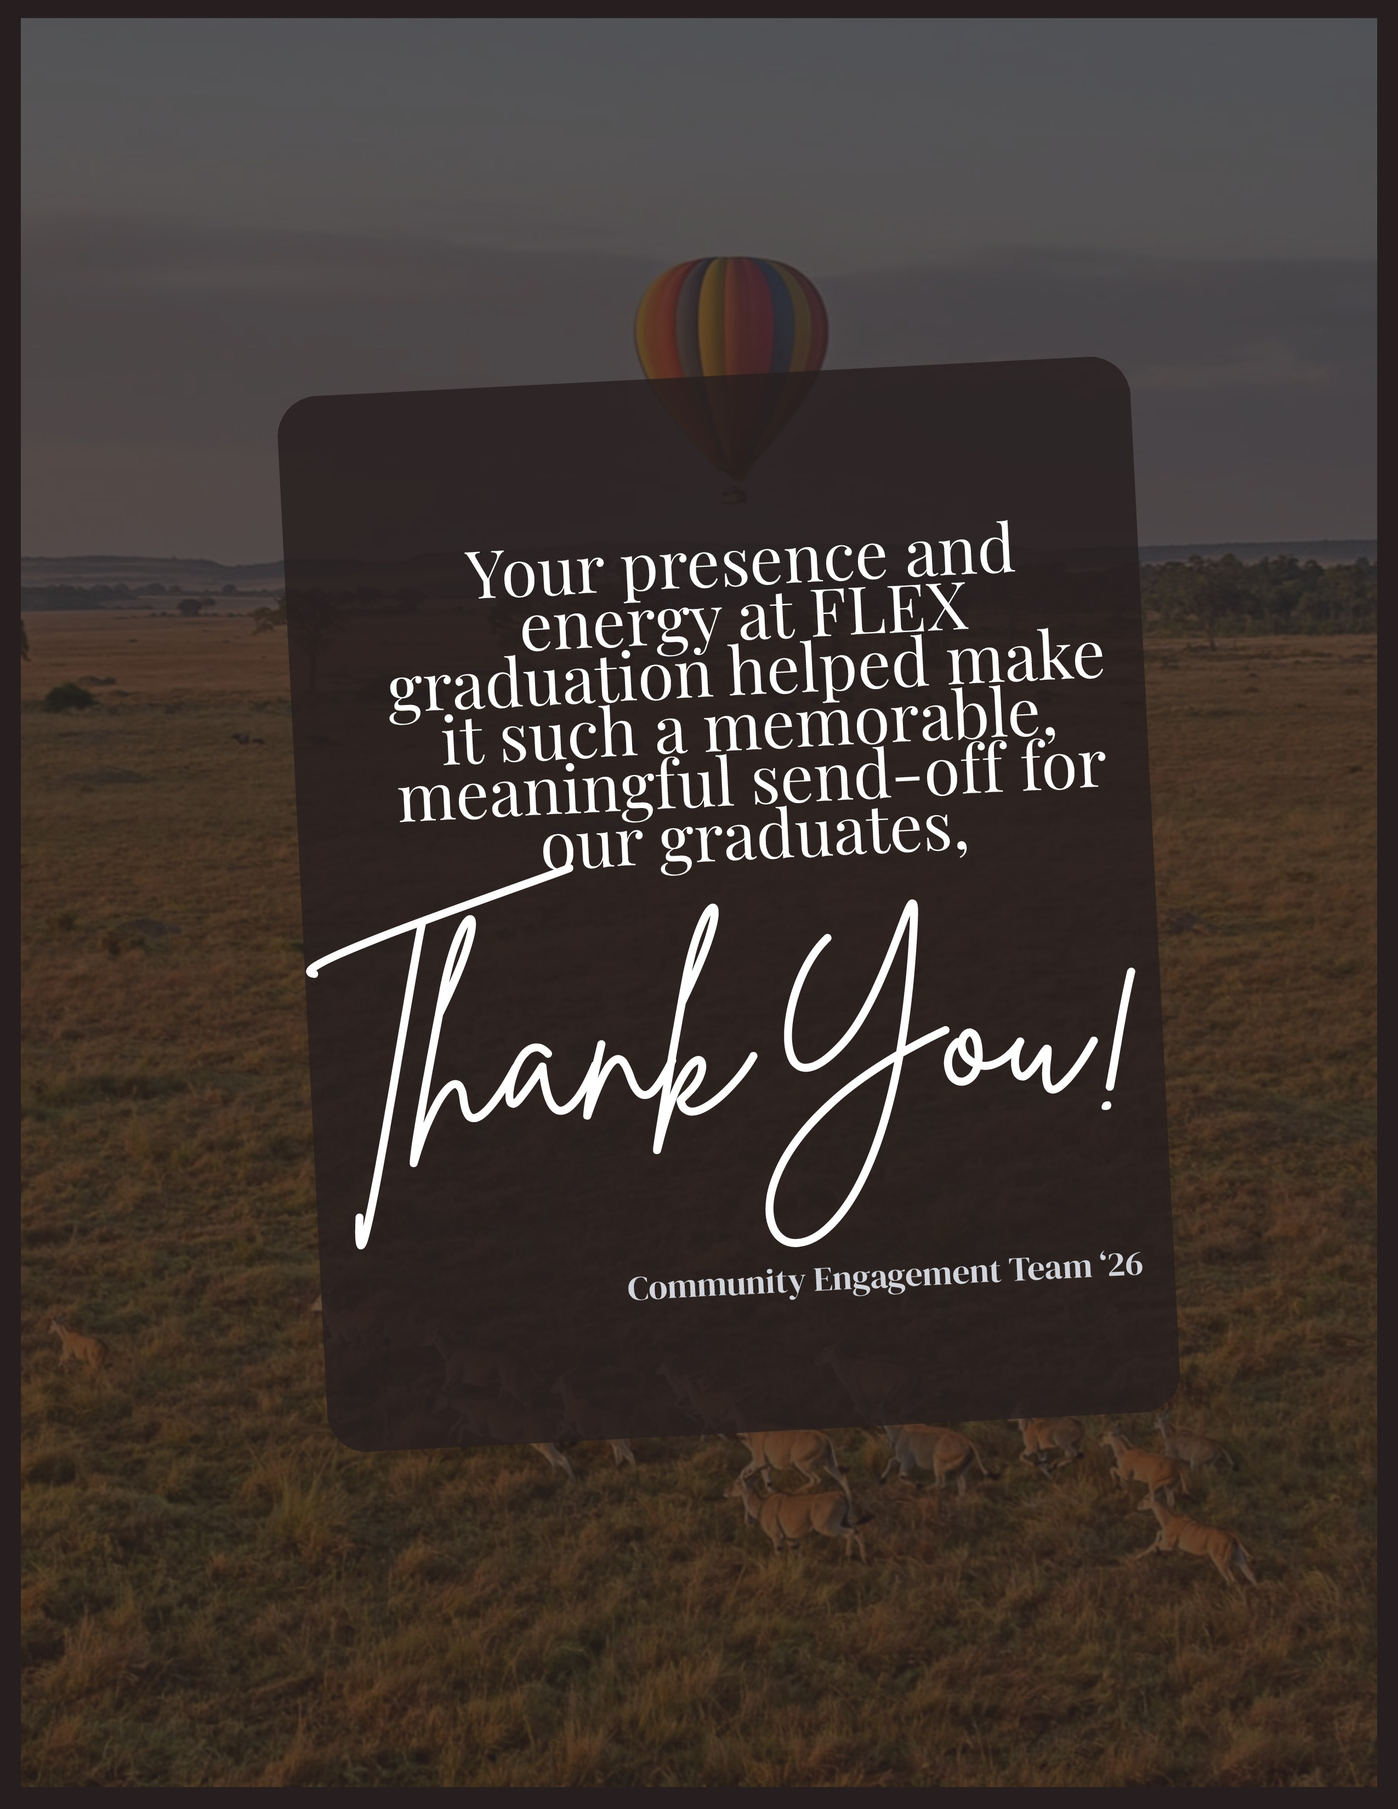
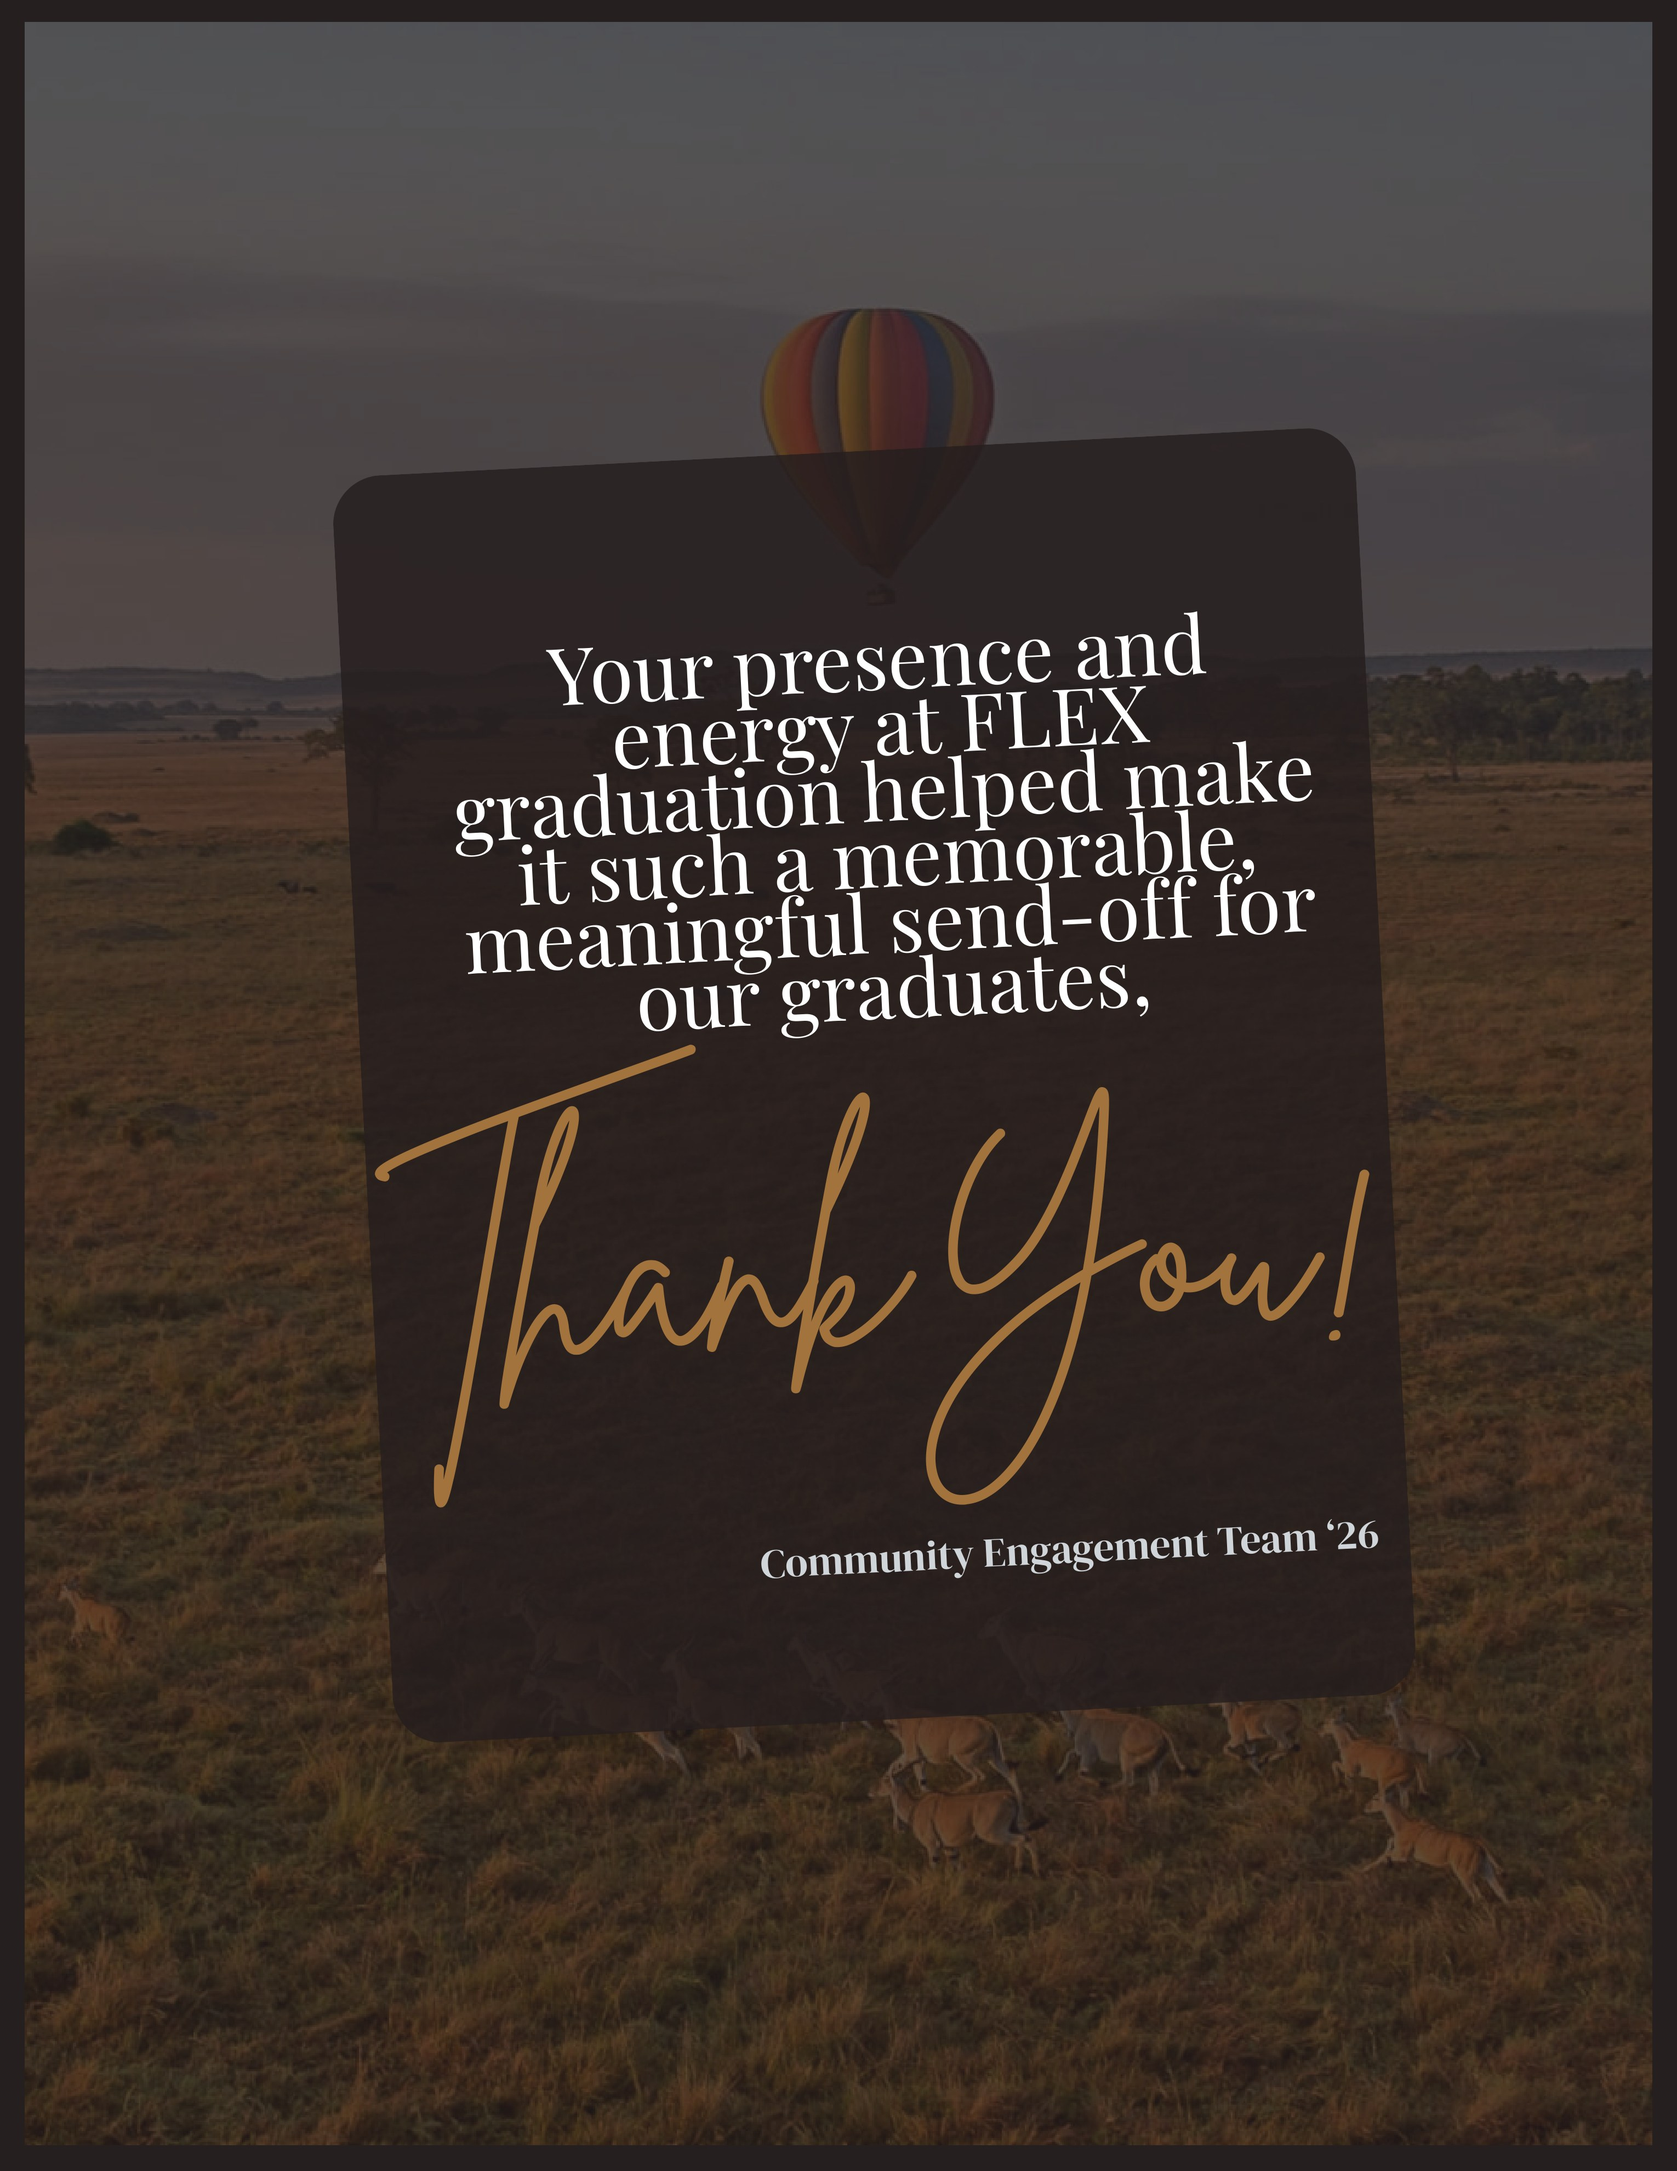
Update program content from latest PDF (FLEX Grad Program 26 (4))
Cover text accent now gold, program schedule and thank-you copy
refreshed. This PDF has real vector text (unlike the previous one,
which was a single flattened raster per page), so pages are rendered
straight from the PDF at 360 DPI to keep both the background photos
and the small program-table text crisp.

Changed region(s): [[0.2478, 0.2809, 0.8365, 0.7491], [0.8055, 0.5306, 0.8365, 0.5618], [0.2169, 0.5306, 0.2478, 0.5618]]

diff --git a/assets/js/app.js b/assets/js/app.js
@@ -1,6 +1,6 @@
 (function () {
   var PAGE_ASPECT = 1836 / 2376; // width / height of the source pages
-  var ASSET_VERSION = 6; // bump whenever page images are replaced, to bust browser cache
+  var ASSET_VERSION = 7; // bump whenever page images are replaced, to bust browser cache
   var IMAGES = [
     'assets/pages/cover.jpg?v=' + ASSET_VERSION,
     'assets/pages/program.jpg?v=' + ASSET_VERSION,

diff --git a/index.html b/index.html
@@ -28,6 +28,6 @@
   </main>
 
   <script src="assets/vendor/page-flip.browser.js"></script>
-  <script src="assets/js/app.js?v=5"></script>
+  <script src="assets/js/app.js?v=6"></script>
 </body>
 </html>
